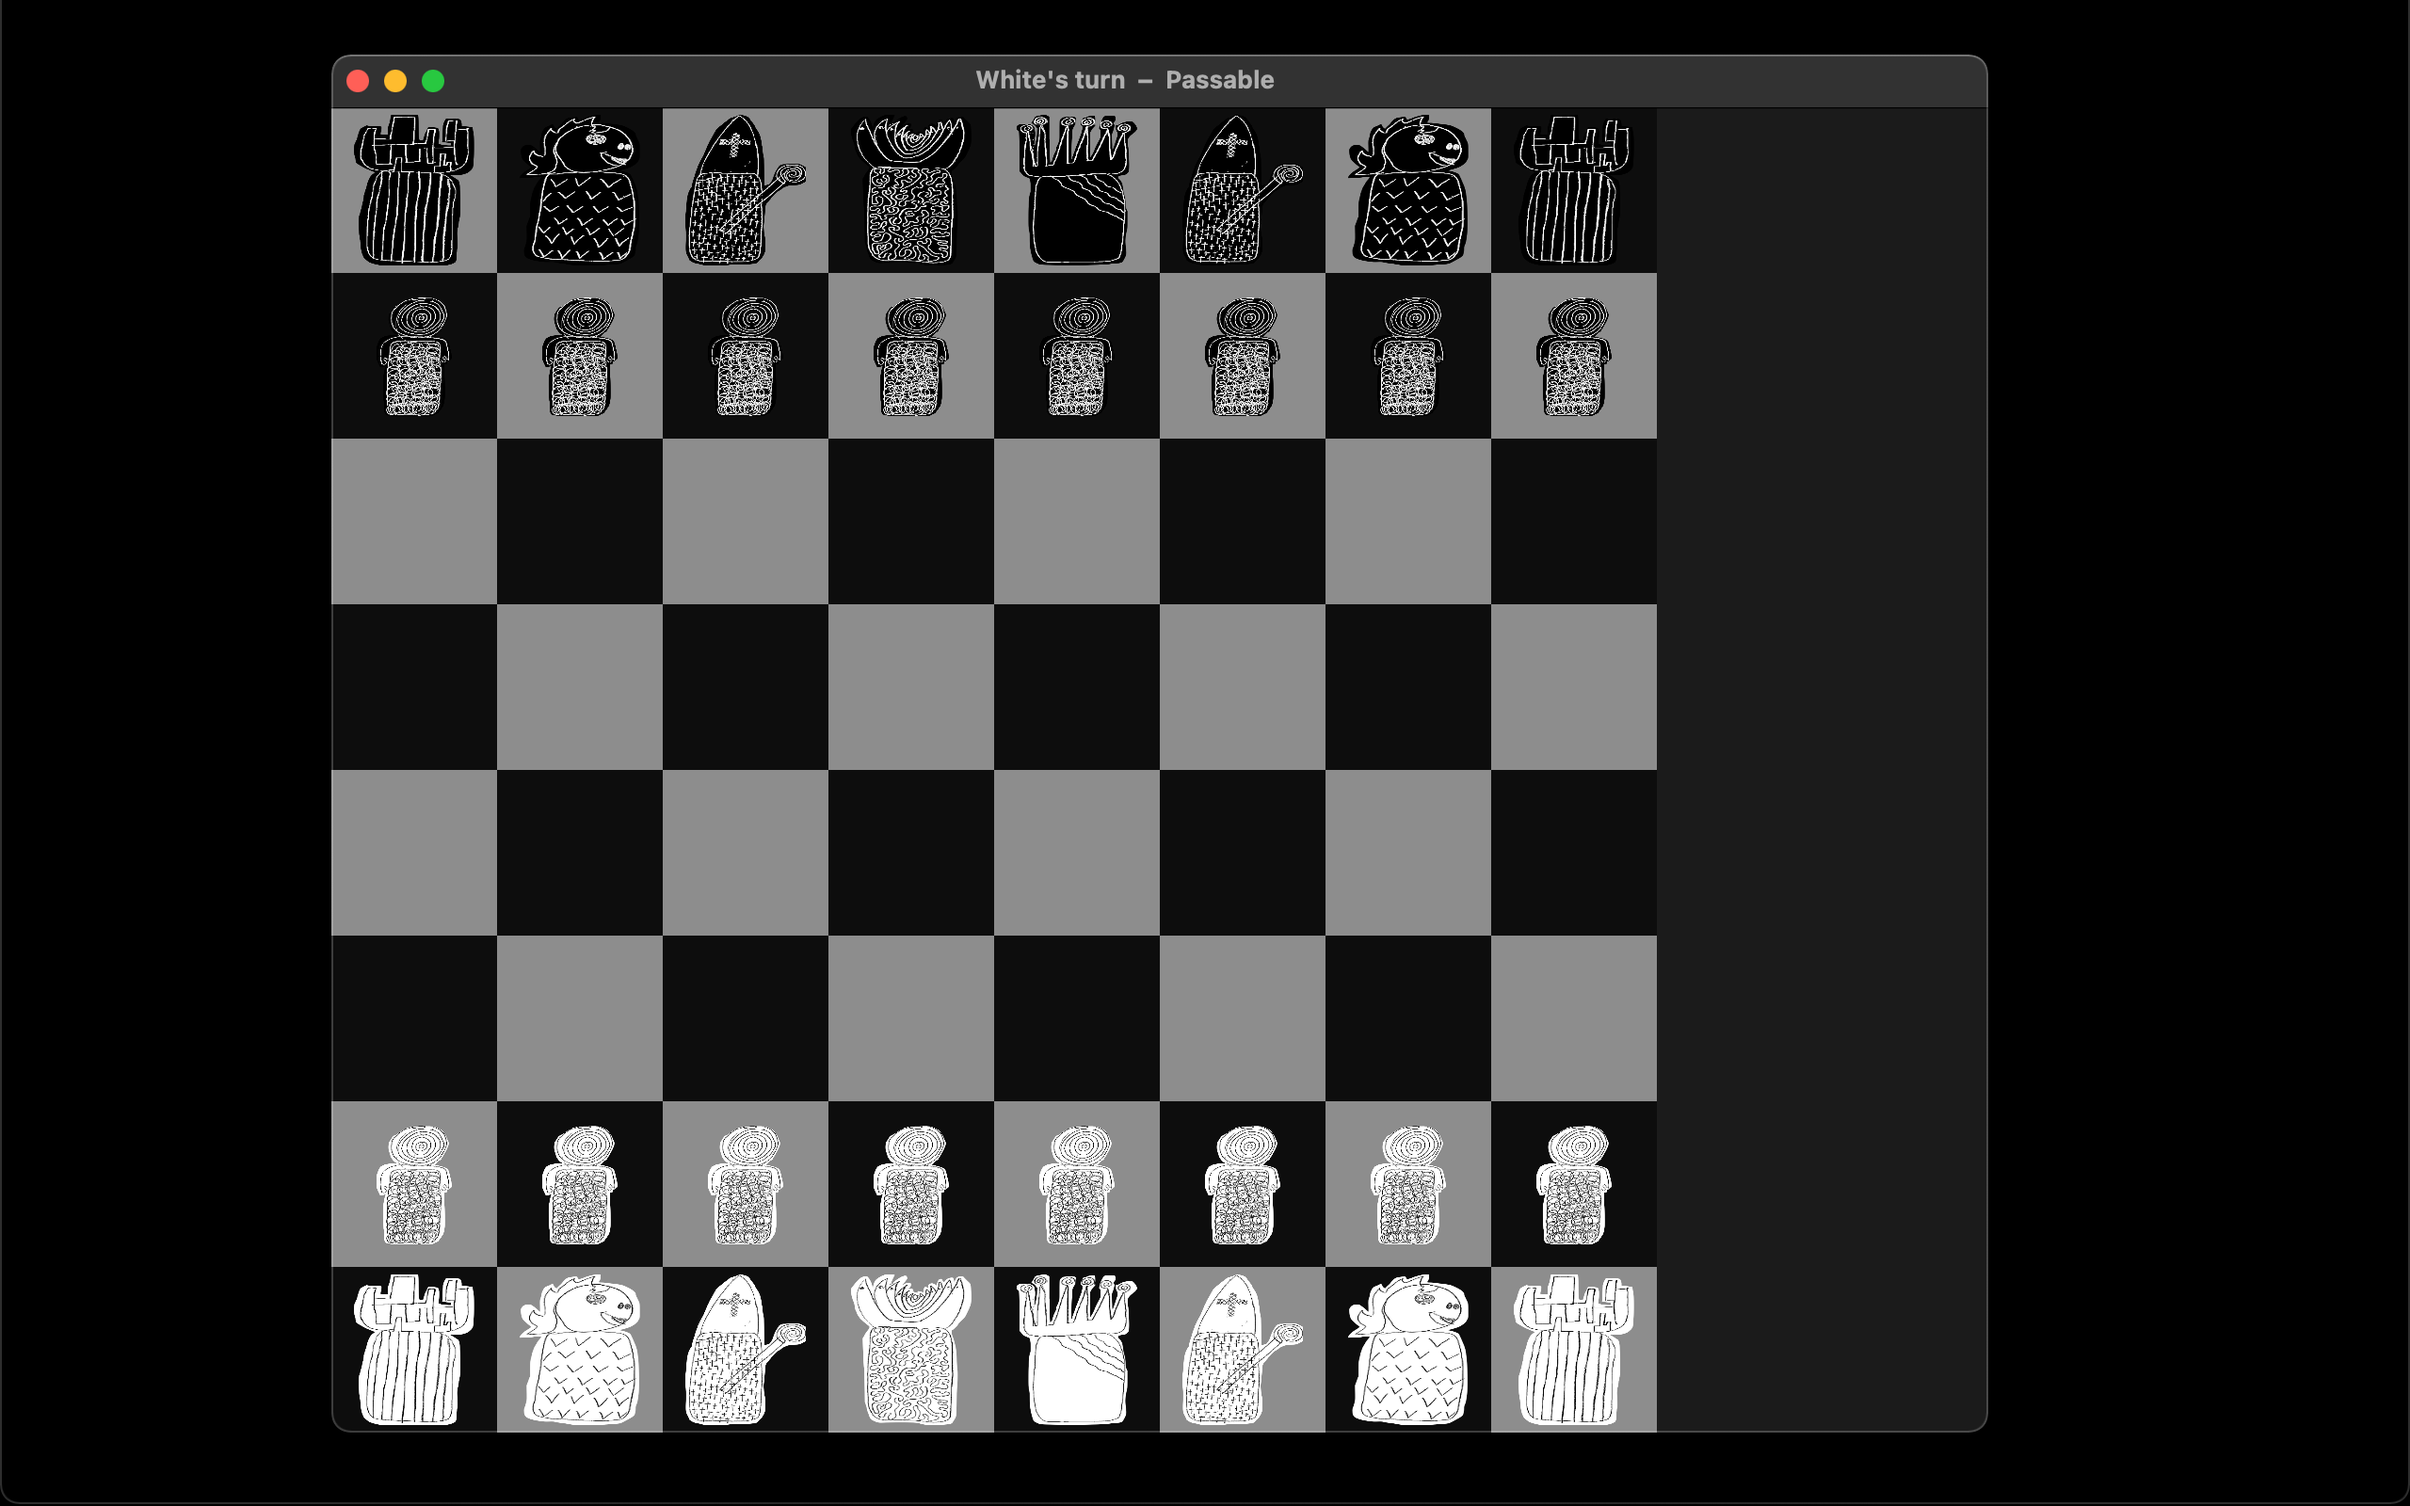
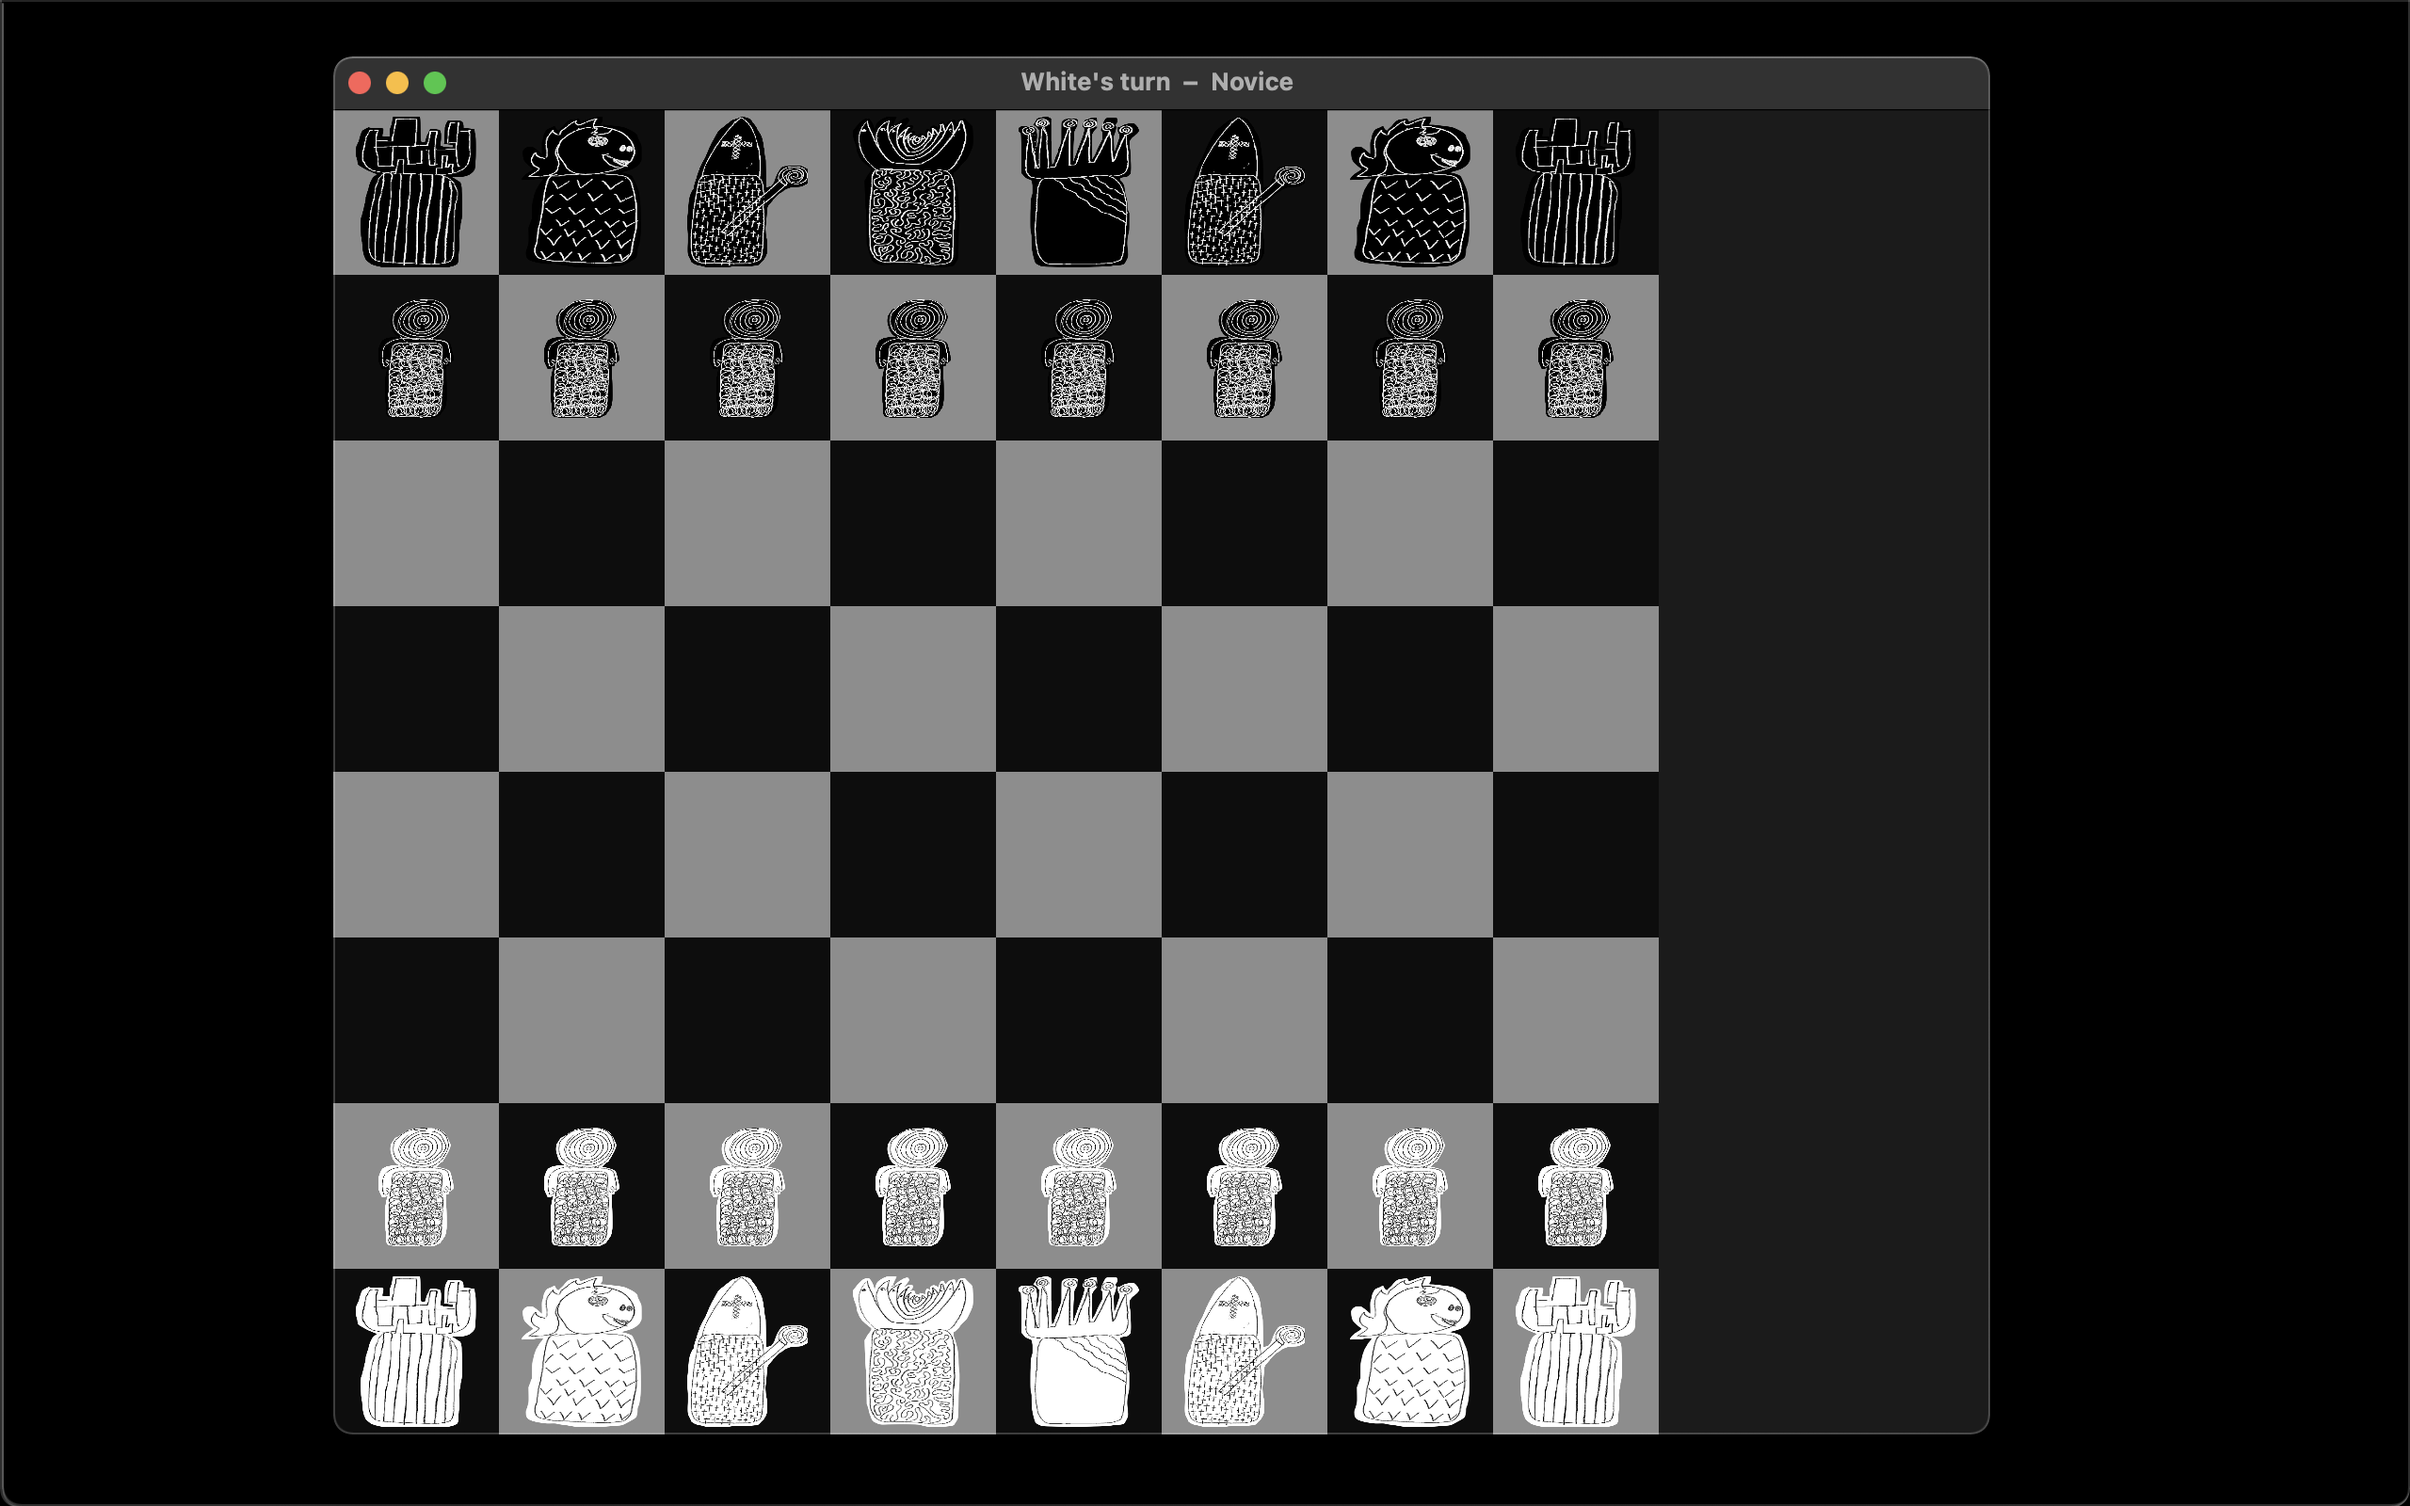
update screenshots

Changed region(s): [[0.125, 0.0312, 0.6875, 0.2812], [0.125, 0.75, 0.6875, 0.9688], [0.0, 0.9688, 0.0312, 1.0]]

diff --git a/Docs/cpanel/index.html b/Docs/cpanel/index.html
@@ -3,19 +3,19 @@
 <head>
 <link rel="stylesheet" type="text/css" href="styles.css">
 <meta charset='UTF-8'><meta name='viewport' content='width=device-width initial-scale=1'>
-<title>index</title>
+<title>Diamond Chess</title>
 </head>
 <body><h2 id='diamond-chess'>Diamond Chess</h2>
 <p>Welcome to Diamond Chess!</p>
 <p>Diamond Chess is a simple chess program with a no-nonsense interface and homemade pieces.</p>
-<p>Use it if you want to play a quick game against the computer or another human without a lot of fuss or overhead.</p>
+<p>Use it to play a quick game against the computer or another human without a lot of fuss or overhead.</p>
 <p>Written in Swift by Jonathan Huston, pieces designed by Ella Huston.</p>
 <p><img src="https://diamondchess.s3.eu-central-1.amazonaws.com/Board2.png" referrerpolicy="no-referrer"></p>
 <p>Here are the simple Game menu items and keyboard shortcuts:</p>
 <p><img src="https://diamondchess.s3.eu-central-1.amazonaws.com/GameMenu.png" referrerpolicy="no-referrer"></p>
 <p>Choose whether to play white against the computer, black against the computer, or against another human. </p>
 <p>Flip the board if it&#39;s upside down from your perspective. </p>
-<p>The computer&#39;s playing strength can be Terrible, Novice, Passable, or Creative.</p>
+<p>The computer&#39;s playing strengths are Terrible, Novice, and Decent.</p>
 <p>If you&#39;re promoting a pawn, you have a few seconds to click through the possible pieces (queen, knight, rook, bishop).</p>
 <p>That&#39;s it! Have fun!</p>
 <p>If you&#39;re just learning chess, <a href="https://lichess.org">lichess.org</a> is a good place to start. </p>

diff --git a/Docs/index.md b/Docs/index.md
@@ -4,7 +4,7 @@ Welcome to Diamond Chess!
 
 Diamond Chess is a simple chess program with a no-nonsense interface and homemade pieces.
 
-Use it if you want to play a quick game against the computer or another human without a lot of fuss or overhead.
+Use it to play a quick game against the computer or another human without a lot of fuss or overhead.
 
 Written in Swift by Jonathan Huston, pieces designed by Ella Huston.
 
@@ -18,7 +18,7 @@ Choose whether to play white against the computer, black against the computer, o
 
 Flip the board if it's upside down from your perspective. 
 
-The computer's playing strength can be Terrible, Novice, or Decent.
+The computer's playing strengths are Terrible, Novice, and Decent.
 
 If you're promoting a pawn, you have a few seconds to click through the possible pieces (queen, knight, rook, bishop).
 
